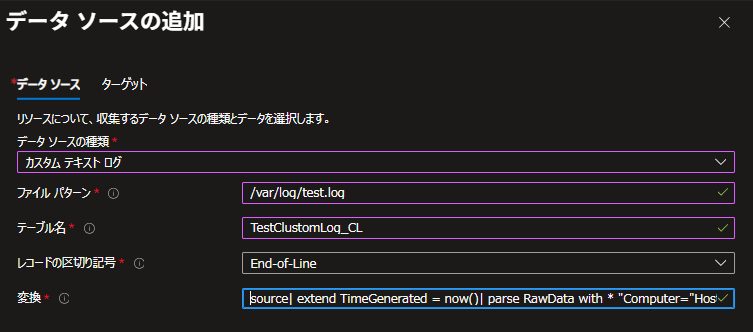
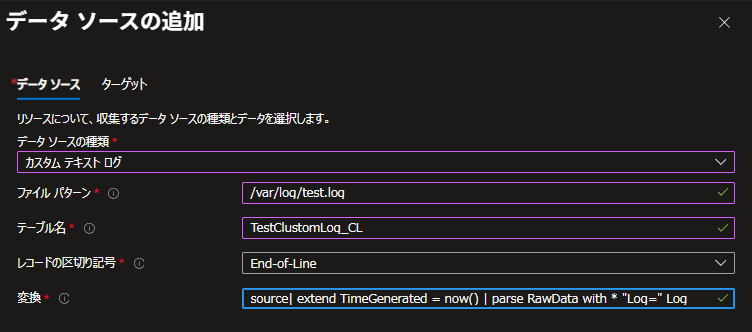
Computer column change

diff --git a/articles/LogAnalytics/AMA_CustomLog.md b/articles/LogAnalytics/AMA_CustomLog.md
@@ -59,9 +59,9 @@ https://learn.microsoft.com/ja-jp/azure/azure-monitor/agents/data-collection-tex
 ### 前提
 今回は、以下の様なテキスト ファイルを取得することを想定します。
 ```
-2022-12-31T01:00:00.1234567Z | Computer=TestVM01 | Log=Service stop
-2022-12-31T01:01:00.1234567Z | Computer=TestVM01 | Log=Service start
-2022-12-31T01:02:00.1234567Z | Computer=TestVM01 | Log=Service stop
+2022-12-31T01:00:00.1234567Z | Log=Service stop
+2022-12-31T01:01:00.1234567Z | Log=Service start
+2022-12-31T01:02:00.1234567Z | Log=Service stop
 ```
 
 ### 手順
@@ -73,22 +73,22 @@ https://learn.microsoft.com/ja-jp/azure/azure-monitor/agents/data-collection-tex
         "schema": {
                "name": "{TableName}_CL",
                "columns": [
-        {
+                       {
                                 "name": "TimeGenerated",
                                 "type": "DateTime"
-                        }, 
+                       }, 
                        {
                                 "name": "RawData",
                                 "type": "String"
                        },
                        {
-                                "name": "HostName",
+                                "name": "Computer",
                                 "type": "String"
                        },
-                      {
+                       {
                                 "name": "Log",
                                 "type": "String"
-                     }
+                       }
               ]
         }
     }
@@ -107,6 +107,9 @@ Invoke-AzRestMethod -Path "/subscriptions/{subscription}/resourcegroups/{resourc
 ※3 後述する TransformKql のデータの変換機能を利用することで、カスタム ログを RawData 以外のカラムに格納することが可能です。
 
 ※4 データの変換機能を利用する場合は、必要に応じて他のカラムを作成してください。
+
+※5 Computer、FilePath カラムについては自動で値が収集されます。詳しくは以下公開情報をご参考ください。
+https://learn.microsoft.com/ja-jp/azure/azure-monitor/vm/data-collection-log-text?tabs=portal#log-analytics-workspace-table
 
 DCR を設定する
 --
@@ -130,9 +133,9 @@ DCR を設定する
 ```
 
 6. [テーブル名] にはさきほど作成したテーブル名 (_CL 含む) を指定します。
-[Transform] には、以下のクエリを設定してデータを整形します。
+[Transform] には、以下のクエリを設定してデータを整形します。こちらの例は "Log=" に続く情報を Log カラムに収集しております。
 ```
-source| extend TimeGenerated = now()| parse RawData with * "Computer="HostName "| " *| parse RawData with * "Log="Log"
+source| extend TimeGenerated = now() | parse RawData with * "Log=" Log 
 ```
 ![](./AMA_CustomLog/AMACustomlog_08_202512.png)
 ※ TransformKql の書き方については、以下公開情報をご参考ください。
@@ -146,20 +149,19 @@ https://learn.microsoft.com/ja-jp/azure/azure-monitor/essentials/data-collection
 
 この後、指定したパスへテキスト ログを出力していくと、ログが取得されます。
 
-![](./AMA_CustomLog/AMACustomlog_12.png)
+![](./AMA_CustomLog/AMACustomlog_12_202512.png)
 
 なお、今回のサンプルでは、TimeGenerated 列はログがエージェントによって収集されたタイミングとなります。
 テキスト ログ内の RawData 内の日時を、Log Analytics ワークスペース上の TimeGenerated 列としたいたい場合は、Transform のクエリを以下の様に指定し、ログから時刻を取得し、日付形式に変換の上、TimeGenerated 列として定義します。
 ```
 source
 | extend TimeGenerated = todatetime(substring(RawData,0,28))
-| parse RawData with * "Computer="HostName "| " *
 | parse RawData with * "Log="Log"
 ```
 
 これにより、TimeGenerated 列の値が RawData 内の日時をもとに設定されます。
 
-![](./AMA_CustomLog/AMACustomlog_13.png)
+![](./AMA_CustomLog/AMACustomlog_13_202512.png)
 
 
 - substring()
@@ -227,6 +229,6 @@ B. Azure Monitor エージェントを再インストールする
 本手順をテストされる場合、以下のコマンドにて簡単に検証が可能です。
 
 ```
-echo "`date '+%Y-%m-%dT%H:%M:%S.%7N'` | Computer=`hostname` | Log=Service stop" >> /var/log/test.log
-echo "`date '+%Y-%m-%dT%H:%M:%S.%7N'` | Computer=`hostname` | Log=Service start" >> /var/log/test.log
+echo "`date '+%Y-%m-%dT%H:%M:%S.%7N'` | Log=Service stop" >> /var/log/test.log
+echo "`date '+%Y-%m-%dT%H:%M:%S.%7N'` | Log=Service start" >> /var/log/test.log
 ```
